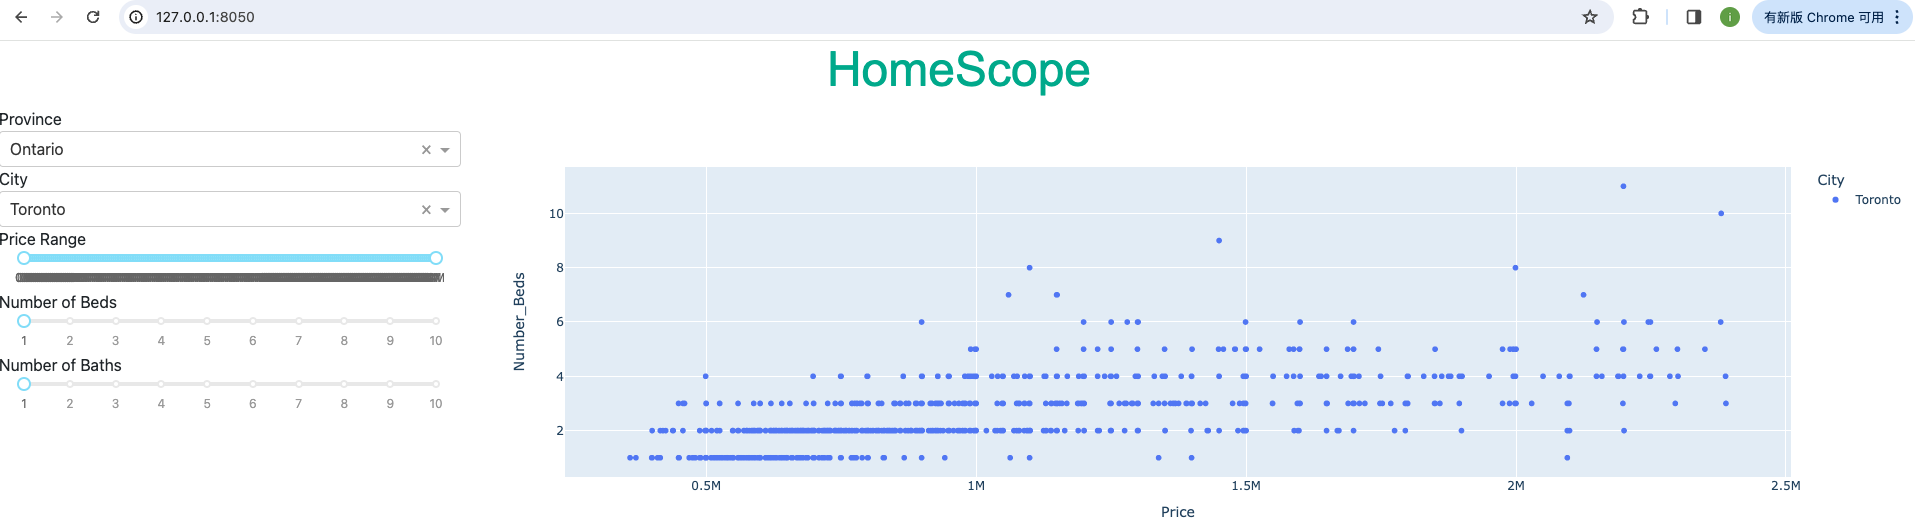
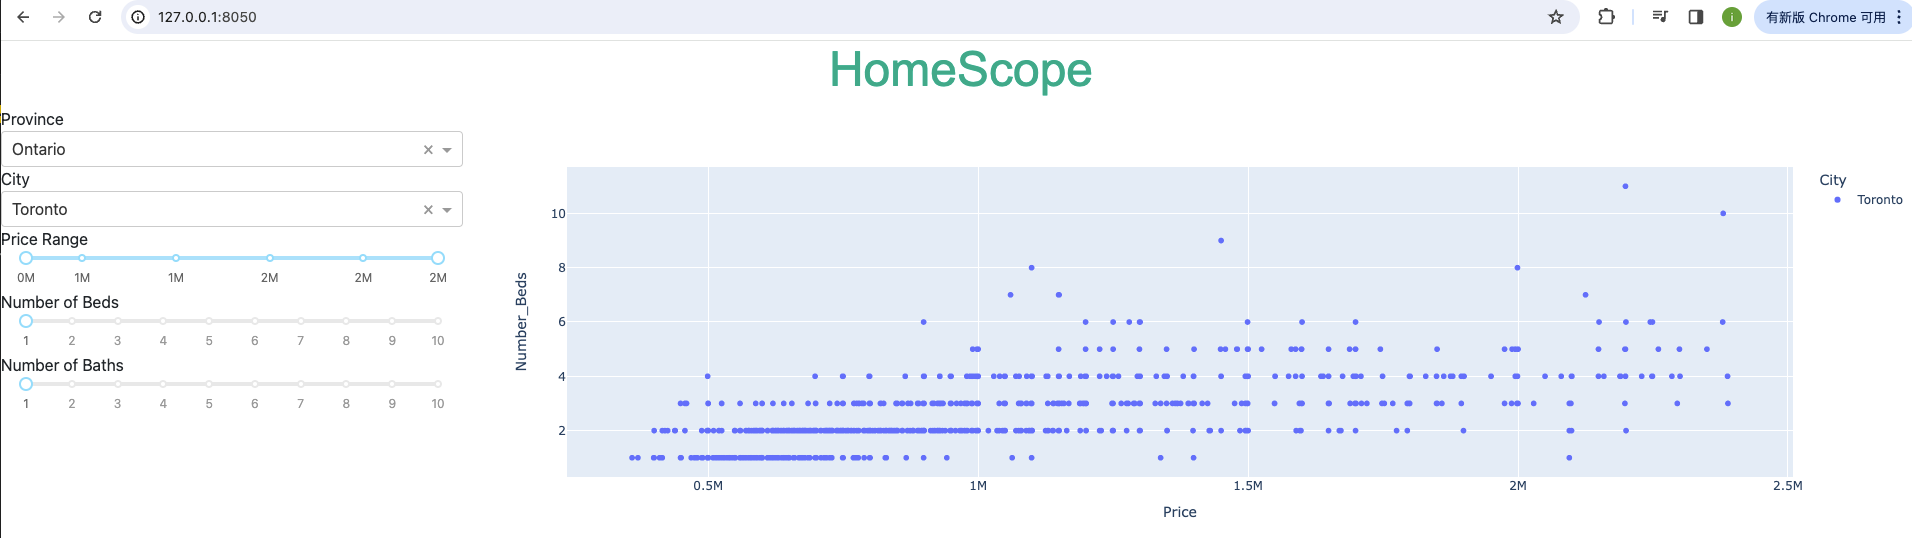
adjust the price widget range in app.py to make it looks better

diff --git a/src/app.py b/src/app.py
@@ -33,7 +33,7 @@ app.layout = html.Div([
                 id='price-range-slider',
                 min=int(df['Price'].quantile(0.05)),
                 max=int(df['Price'].quantile(0.95)),
-                step=10000,
+                step=500000,
                 value=[int(df['Price'].quantile(0.05)), int(df['Price'].quantile(0.95))],
             ),
             html.Label("Number of Beds"),
